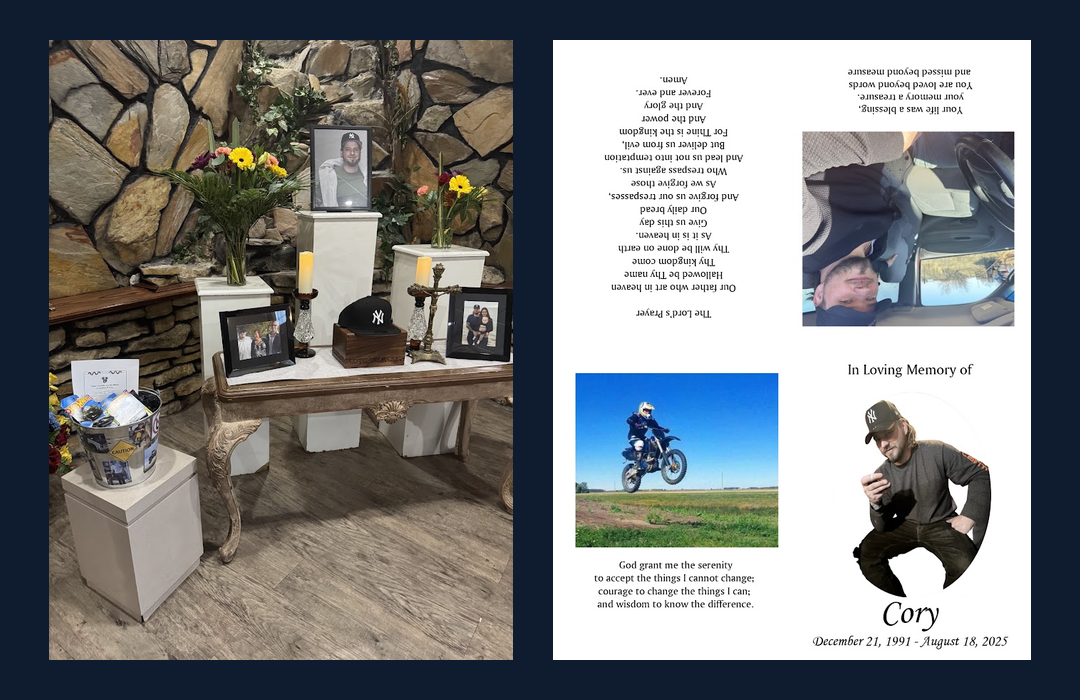
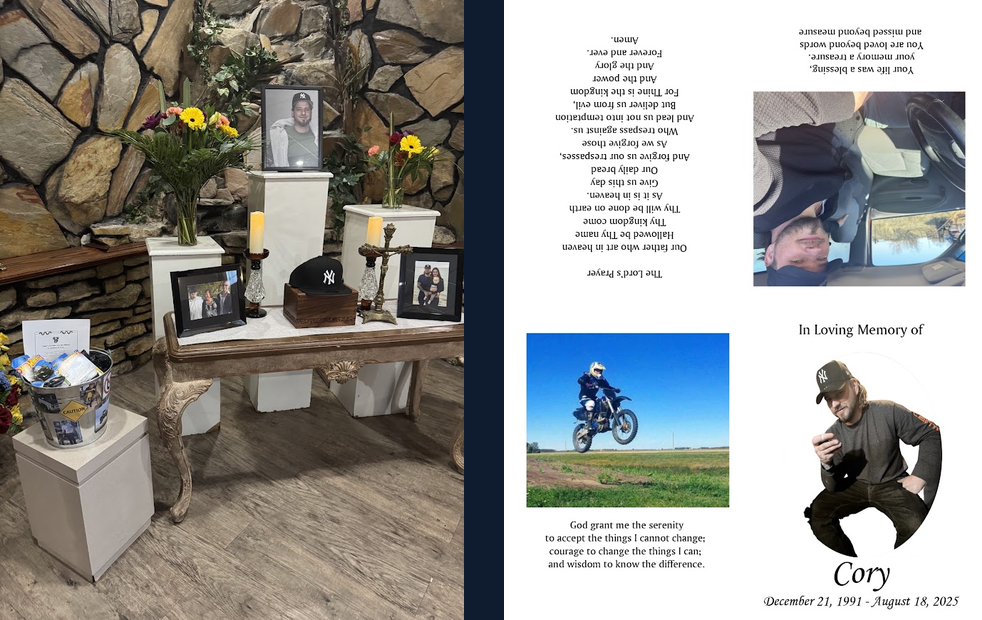
Collection: uniform card and image frame sizes; trim image borders
Claude-Session: https://claude.ai/code/session_01FFgjcprDW3YH87T57Q36MB

diff --git a/index.html b/index.html
@@ -389,6 +389,14 @@
   .client-pair .client-block{width:auto;margin:0;}
   .client-pair .asset-tall img{width:100%;}
   .client-pair > .client-block:last-child:nth-child(odd){grid-column:1 / -1;justify-self:center;width:calc(50% - 12px);}
+  /* uniform collection cards */
+  .client-pair .client-block{display:flex;flex-direction:column;padding:22px 22px 18px;}
+  .client-pair .client-head{min-height:52px;align-items:flex-start;margin-bottom:14px;}
+  .client-pair .client-name{font-size:20px;line-height:1.2;}
+  .client-pair .client-assets,.client-pair .asset-tall{width:100%;flex:1;}
+  .client-pair .asset-tall{gap:12px;}
+  .client-pair .asset-tall img{width:100%;max-width:none;aspect-ratio:1/1;height:auto;object-fit:contain;background:#09121f;border:1px solid var(--hair);border-radius:2px;padding:14px;box-sizing:border-box;}
+  .client-pair .asset-label{display:block;text-align:left;}
   .client-head{
     display:flex;
     align-items:center;
@@ -806,7 +814,7 @@
           </div>
         </div>
         <div class="client-assets assets-centered">
-          <div class="asset asset-tall"><img src="compass-resume-design.png" alt="Joshua Malyk resume in a bold two-column design layout" style="background:var(--ink);"><span class="asset-label">Resume</span></div>
+          <div class="asset asset-tall"><img src="compass-resume-design.png" alt="Joshua Malyk resume in a bold two-column design layout"><span class="asset-label">Resume</span></div>
         </div>
       </div>
       <div class="client-block">
@@ -816,7 +824,7 @@
           </div>
         </div>
         <div class="client-assets assets-centered">
-          <div class="asset asset-tall"><img src="compass-resume-classic.png" alt="Joshua Malyk resume in a clean single-column layout, updated October 2026" style="background:var(--ink);"><span class="asset-label">Resume</span></div>
+          <div class="asset asset-tall"><img src="compass-resume-classic.png" alt="Joshua Malyk resume in a clean single-column layout, updated October 2026"><span class="asset-label">Resume</span></div>
         </div>
       </div>
       </div>
@@ -947,7 +955,7 @@
           </div>
         </div>
         <div class="client-assets assets-centered">
-          <div class="asset asset-tall"><img src="tribute-cory.png" alt="Memorial table display and folded memorial program for Cory" style="background:var(--ink);"><span class="asset-label">Memorial display &amp; program</span></div>
+          <div class="asset asset-tall"><img src="tribute-cory.png" alt="Memorial table display and folded memorial program for Cory"><span class="asset-label">Memorial display &amp; program</span></div>
         </div>
       </div>
       </div>
